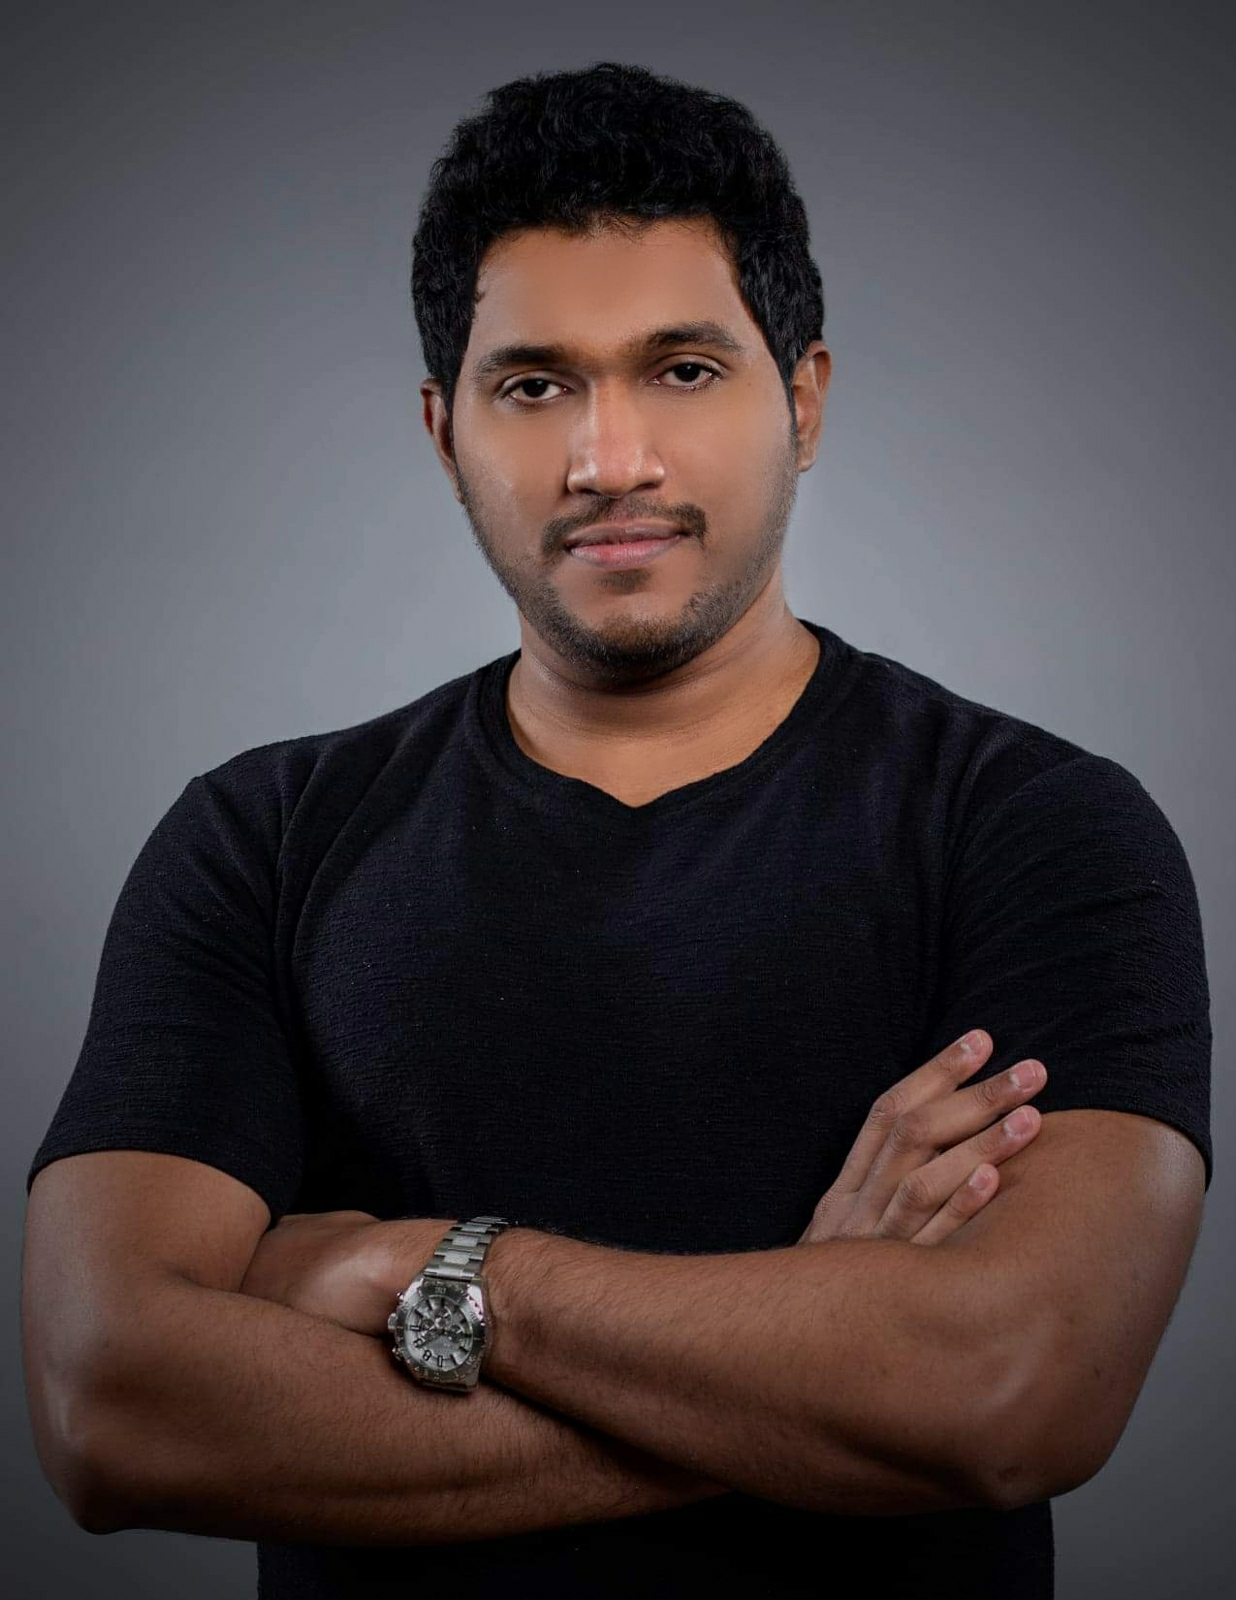
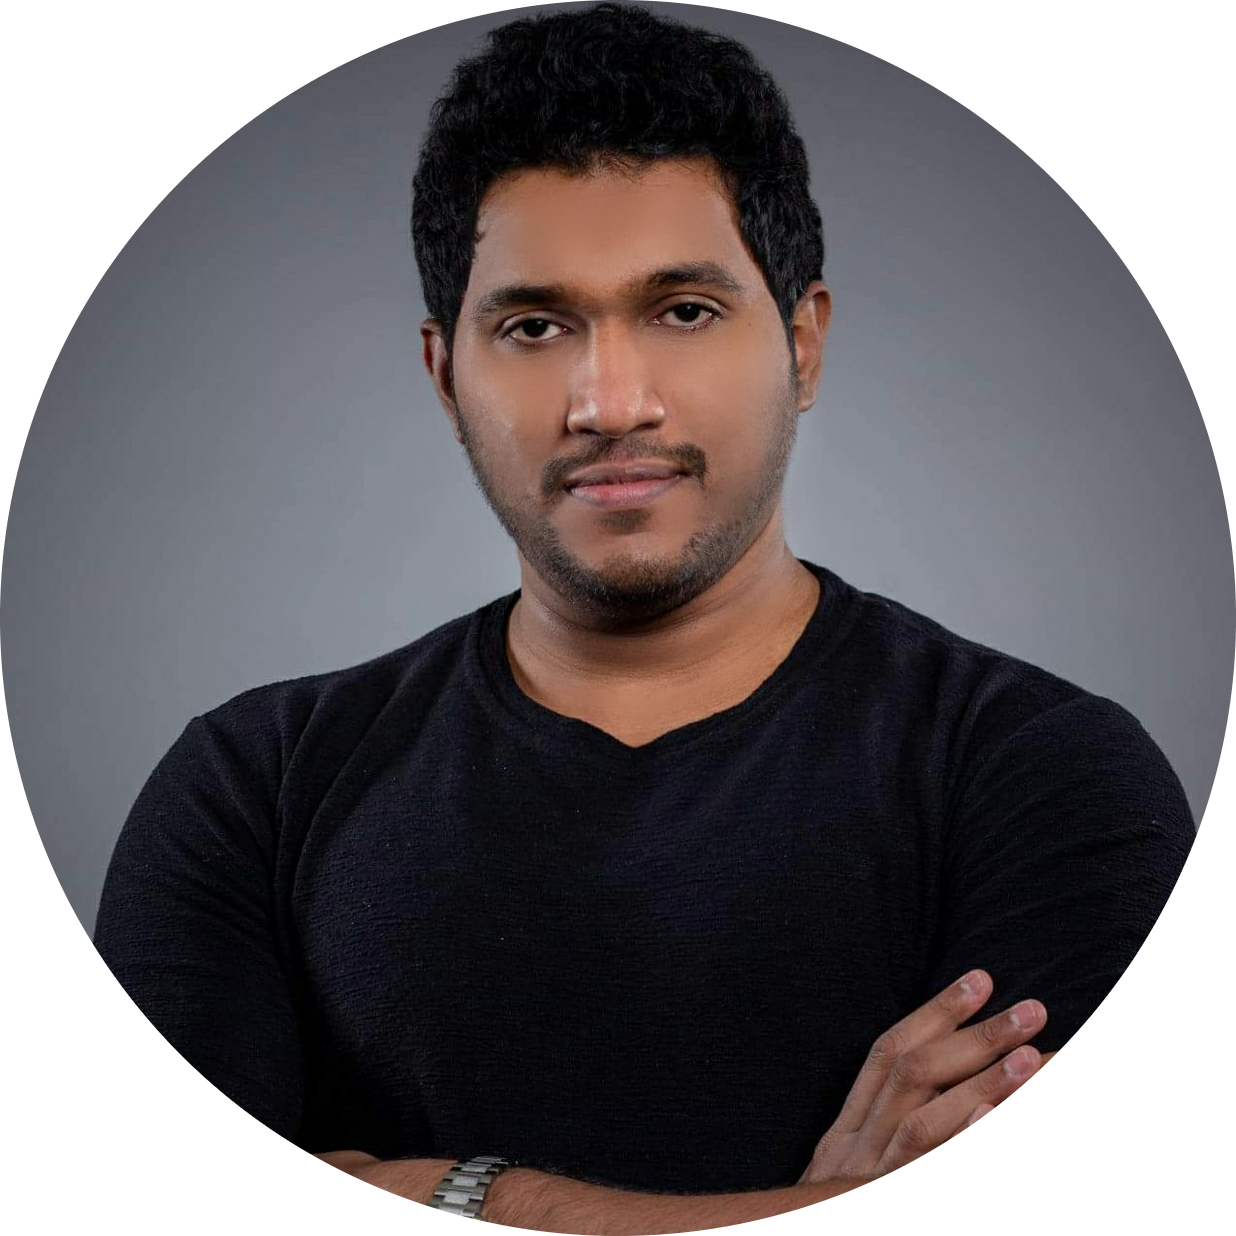
Update profile photo

diff --git a/index.html b/index.html
@@ -62,20 +62,20 @@
     <section id="about">
       <!-- User Introduction-->
       <div class="user-details">
-        <h1>My Story</h1>
+        <h1>About Me</h1>
         <picture>
           <source
             type="image/webp"
             srcset="./assets/img/webp/Professional-Picture-Me.webp"
             alt="Professional Me"
-            width="20%"
-            style="border-radius: 70%"
+            width="30%"
+            style="border-radius: 50%"
           />
           <img
             src="./assets/img/jpg/Professional-Picture-Me.jpg"
             alt="Professional Me"
-            width="20%"
-            style="border-radius: 70%"
+            width="30%"
+            style="border-radius: 50%"
           />
         </picture>
         <p>
@@ -98,7 +98,6 @@
           <i class="devicon-java-plain-wordmark colored"></i>
           <i class="devicon-cplusplus-plain colored"></i>
           <i class="devicon-javascript-plain colored"></i>
-          <p>My favorite languages for systems programming, software engineering, and data analysis.</p>
         </div>
 
         <!-- Technology Stack #2: Front-End -->
@@ -108,7 +107,6 @@
           <i class="devicon-bootstrap-plain-wordmark colored"></i>
           <i class="devicon-html5-plain-wordmark colored"></i>
           <i class="devicon-css3-plain-wordmark colored"></i>
-          <p>My preferred technologies for front-end web development and component design.</p>
         </div>
 
         <!-- Technology Stack #3: Back-End -->
@@ -118,7 +116,6 @@
           <i class="devicon-express-original-wordmark colored"></i>
           <i class="devicon-mongodb-plain-wordmark colored"></i>
           <i class="devicon-postgresql-plain-wordmark colored"></i>
-          <p>My preferred technologies for back-end web programming and database architecture.</p>
         </div>
 
         <!-- Technology Stack #4: Tools -->
@@ -128,7 +125,6 @@
           <i class="devicon-visualstudio-plain colored"></i>
           <i class="devicon-github-plain-wordmark colored"></i>
           <i class="devicon-docker-plain-wordmark colored"></i>
-          <p>My favorite tools for version control, code editing, and container orchestration.</p>
         </div>
       </div>
     </section>
